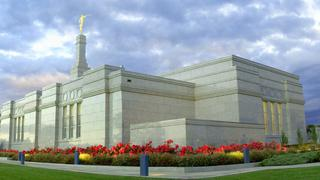
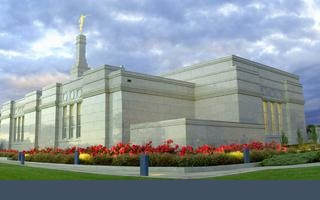
Temple page updates

diff --git a/temples.html b/temples.html
@@ -16,7 +16,7 @@
     </head>
     <body>
         <header>
-            <span id="logo">Temples</span>
+            <span id="logo">Temple Album</span>
             <nav id="normal-nav" class="navigation">
                 <ul>
                     <li><a title="Home" href="#">Home</a></li>
@@ -26,17 +26,15 @@
                     <li><a title="Small" href="#">Small</a></li>
                 </ul>
             </nav>
-            <button onclick="activate()" id="menu-icon">≡</button>
+            <button id="menu-icon">≡</button>
         </header>
-                <nav id="mobile-nav" class="navigation rest">
-                <ul>
+                <ul id="mobile-nav" class="navigation rest">
                     <li><a title="Home" href="#">Home</a></li>
                     <li><a title="Old" href="#">Old</a></li>
                     <li><a title="New" href="#">New</a></li>
                     <li><a title="Large" href="#">Large</a></li>
                     <li><a title="Small" href="#">Small</a></li>
                 </ul>
-            </nav>
         <main>
             <h1>Home</h1>
             <section class="gallery">

diff --git a/scripts/temples.js b/scripts/temples.js
@@ -1,7 +1,7 @@
 const navi = document.getElementById("mobile-nav");
 const menuButton = document.getElementById("menu-icon");
 
-function activate() {
+menuButton.addEventListener("click", function() {
     navi.classList.toggle("rest");
     navi.classList.toggle("open");
     if (menuButton.innerHTML == "x") {
@@ -9,4 +9,4 @@ function activate() {
     } else {
         menuButton.innerHTML = "x";
     }
-}
+});

diff --git a/styles/temples-large.css b/styles/temples-large.css
@@ -1,4 +1,4 @@
-@media screen and (min-width: 40em) {
+@media screen and (min-width: 42rem) {
     #menu-icon {
         display: none;
     }

diff --git a/styles/temples.css b/styles/temples.css
@@ -22,7 +22,7 @@ header {
 
 #logo {
     color: #fff;
-    font-size: 2rem;
+    font-size: 1.5rem;
 }
 
 .navigation li {
